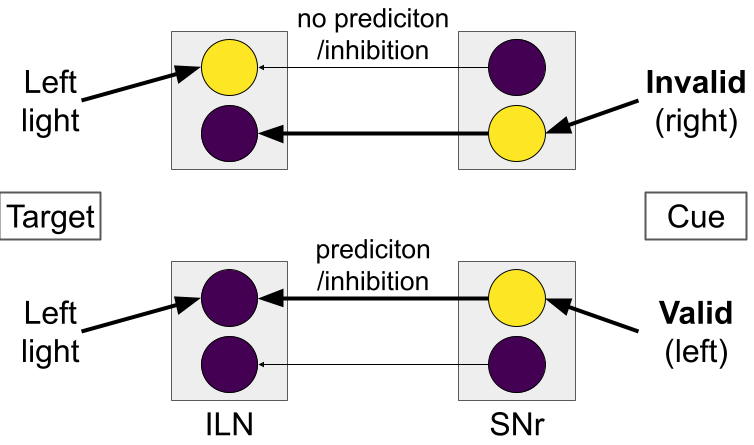
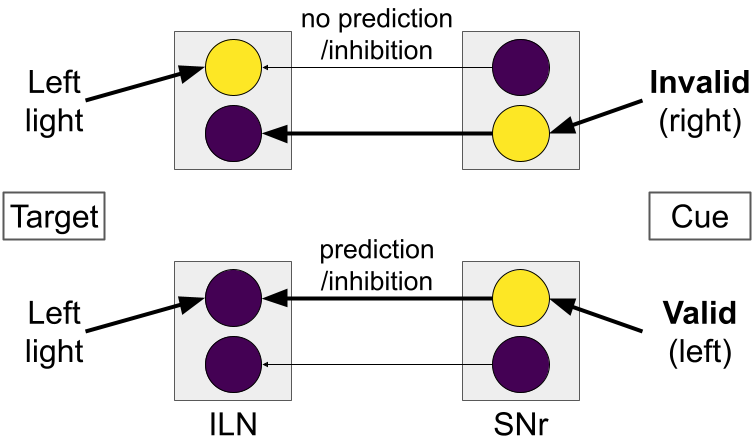
updated poster

diff --git a/poster_files/latex/BGprediction_poster.tex b/poster_files/latex/BGprediction_poster.tex
@@ -66,7 +66,7 @@
     \centering
     \begin{minipage}{0.26\textwidth}
         \textbf{Agency:}\\
-        Agency, our sense of action control, relies on predicting outcomes from internal states. While the cerebellum likely plays a key role, the basal ganglia (BG) - intralaminar nuclei (ILN) circuit may also contribute. The cerebellum potentially enhances agency by generating predictive models, processing error signals, and optimizing timing of motor and cognitive processes \parencite{sendhilnathan2024cerebro}. These functions improve our ability to anticipate action results in BG-ILN loops, reinforcing our sense of agency \parencite{haggard2017sense}.\\
+        Agency, our sense of action control, relies on predicting outcomes from internal states \parencite{haggard2017sense}. The cerebellum potentially enhances agency by generating forward models, processing error signals, and optimizing timing of motor and cognitive processes \parencite{sendhilnathan2024cerebro}. While the cerebellum likely plays an important role, the basal ganglia (BG) - intralaminar nuclei (ILN) circuit may even provide a simple more basic circuit relevant for agency.\\
         
         \textbf{BG-ILN connectivity:}\\
         Various BG and ILN regions are strongly interconnected forming loops \parencite{cover_rostral_2021, gonzalo-martin_micropopulation_2024, smith_thalamostriatal_2014}. Thalamo-striatal projections are relevant for behavioral switching, attentional shifting, and reinforcement \parencite{smith_thalamostriatal_2014,cover_activation_2019, cover_rostral_2023}. Particularly the centromedian/parafascicular (CM/Pf) complex also projects to the subthalamic nucleus (STN), external globus pallidus (GPe), and internal globus pallidus/substantia nigra pars reticulata (GPi/SNr) \parencite{gonzalo-martin_micropopulation_2024,castle_thalamic_2005,kita_intralaminar_2016,hanini-daoud_processing_2022}, with branched axons that simultaneously target both the STN and the GPi/SNr. Additionally, the ILN responds to attention-related salient stimuli, suggesting its role in adapting behavior based on prediction errors \parencite{minamimoto_participation_2002,smith_thalamostriatal_2014}.
